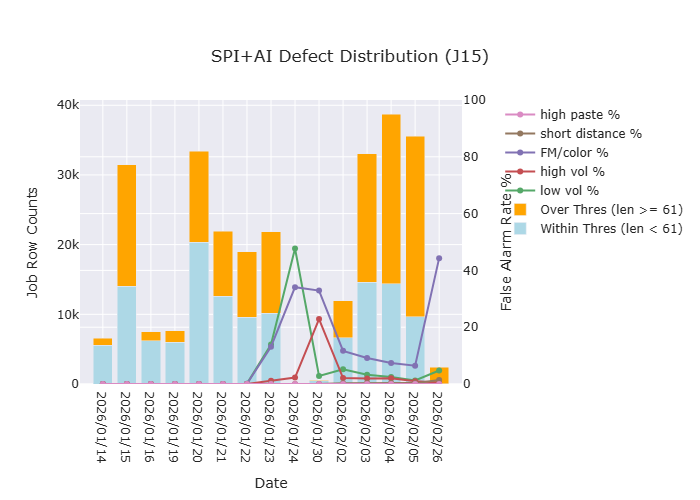
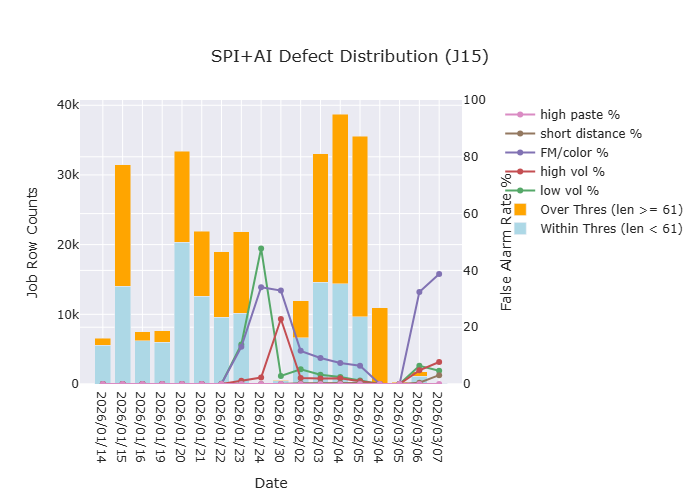
output _process.csv for all conditions.

Changed region(s): [[0.15, 0.21, 0.66, 0.93]]

diff --git a/ai_server_fastapi.py b/ai_server_fastapi.py
@@ -376,25 +376,36 @@ async def process_folder(job_folder: str, *, req_id: Optional[str] = None) -> Di
         backup_dir.mkdir(parents=True, exist_ok=True)
         
         for csv_path in csv_files:
-            # === MODIFICATION START: Read as string to preserve format ===
-            df_out = pd.read_csv(csv_path, dtype=str, keep_default_na=False)
+            # 1. Output Phase: Read as string to preserve numeric formatting
+            df_final = pd.read_csv(csv_path, dtype=str, keep_default_na=False)
+            df_final["is_pass"] = "23"
             
-            # Overwrite/assign is_pass = "23" for all rows (as string)
-            df_out["is_pass"] = "23"
-            
-            # Count as fail since we skipped inference and assigned 23
-            total_fail += len(df_out)
+            total_fail += len(df_final)
             
             out_path = ai_dir / csv_path.name
             backup_path = backup_dir / csv_path.name
             
-            # Save the string-formatted dataframe
-            df_out.to_csv(out_path, index=False)
-            df_out.to_csv(backup_path, index=False)
-            # === MODIFICATION END ===
+            df_final.to_csv(out_path, index=False)
+            df_final.to_csv(backup_path, index=False)
             
             saved_files.append(str(out_path))
             saved_files.append(str(backup_path))
+
+            # 2. Processed Phase: Generate *_processed.csv with full AI schema (all NA/Empty)
+            df_processing = pd.read_csv(csv_path)
+            df_processing["img_name"] = build_img_name_column(df_processing)
+            
+            # Initialize AI columns from endpoints with NA
+            for _, col_name in endpoints:
+                df_processing[col_name] = pd.Series([pd.NA] * len(df_processing), dtype="Float64")
+            
+            df_processing["ai_defect_name"] = ""
+            df_processing["is_pass"] = 23
+            
+            processed_name = f"{csv_path.stem}_processed{csv_path.suffix}"
+            processing_backup_path = backup_dir / processed_name
+            df_processing.to_csv(processing_backup_path, index=False)
+            saved_files.append(str(processing_backup_path))
 
         log_row = {
             "job_folder": str(folder),

diff --git a/test/cal_improve_rate.py b/test/cal_improve_rate.py
@@ -365,7 +365,7 @@ def calculate_and_plot_improvement(mode):
     result_df_old = pd.DataFrame(results_list)
 
     # --- Process Consolidated Log ---
-    log_csv_path = r"D:\Dre\JQ_SPI_02_AI_API\test\log_data\log2_new.csv"
+    log_csv_path = r"D:\Dre\JQ_SPI_02_AI_API\test\log_data\log_0313.csv"
     result_df_new = process_consolidated_log(log_csv_path, log_transition_dt, mode, TARGET_DEFECTS)
     # print(result_df_new)
     # --- Combine and Finalize Rates ---
